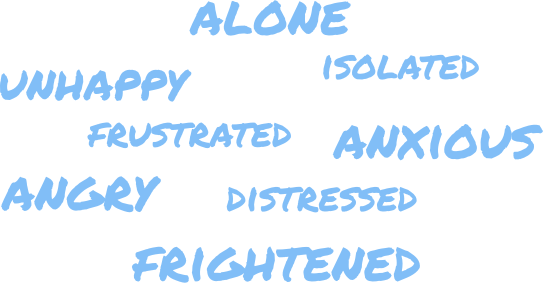
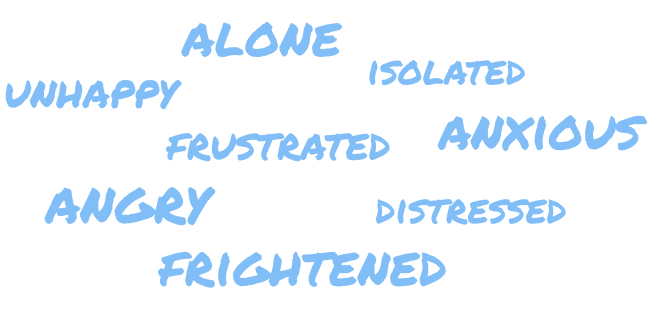
a

diff --git a/css/index.css b/css/index.css
@@ -16,10 +16,7 @@ h1{
 #lineTwo {
     font-size: 29px;
 }
-#feelings {
-    margin: auto;
-    width: 100%;
-}
+
 #birds {
 width:450px;
 padding-top: 30px;
@@ -30,9 +27,10 @@ padding-top: 30px;
 }
 }
 
-#feelings {
-    width:100%;
-    height: 300px;
+#feels {
+    height: 250px;
+    display: block;
+    margin: auto;
 }
 #feel, #help {
     font-family: 'Permanent Marker', cursive;

diff --git a/index.html b/index.html
@@ -69,7 +69,7 @@
             </div>
         </div>
         <div id="feel">If you ever feel...</div>
-        <div id="feelings"><img src="../feelings.png"></div>
+        <div id="feelings"><img src="../feelings.png" id="feels"></div>
         <div id="help">...we may be able to help.</div>
     </div> <!-- /container -->
     </div> <!-- wrap -->
